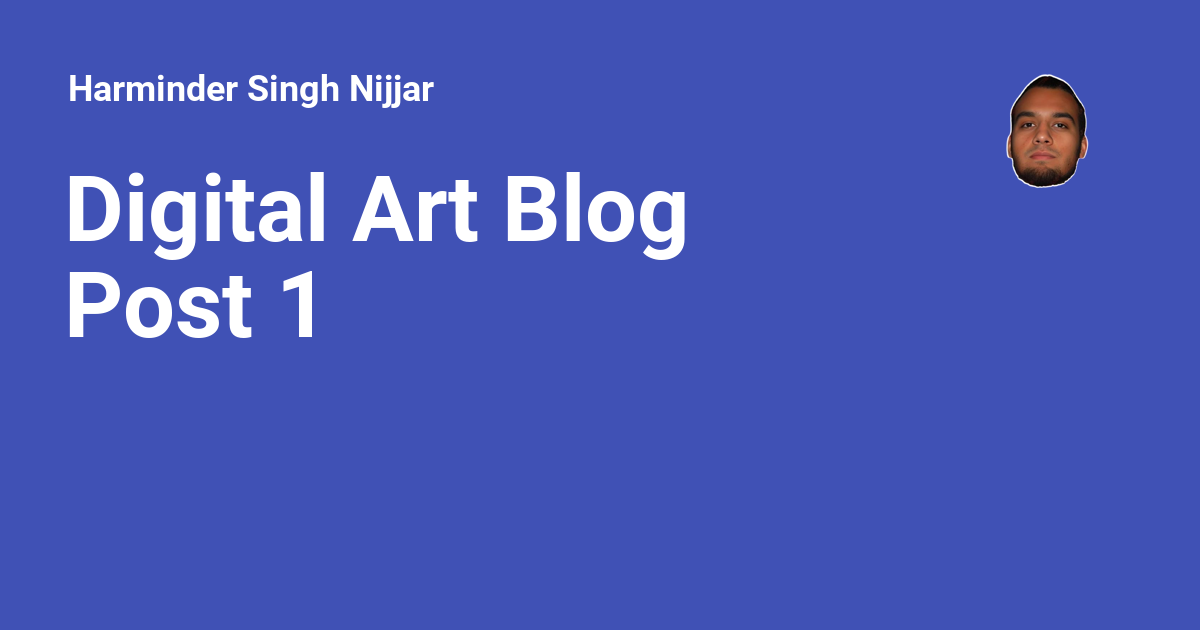
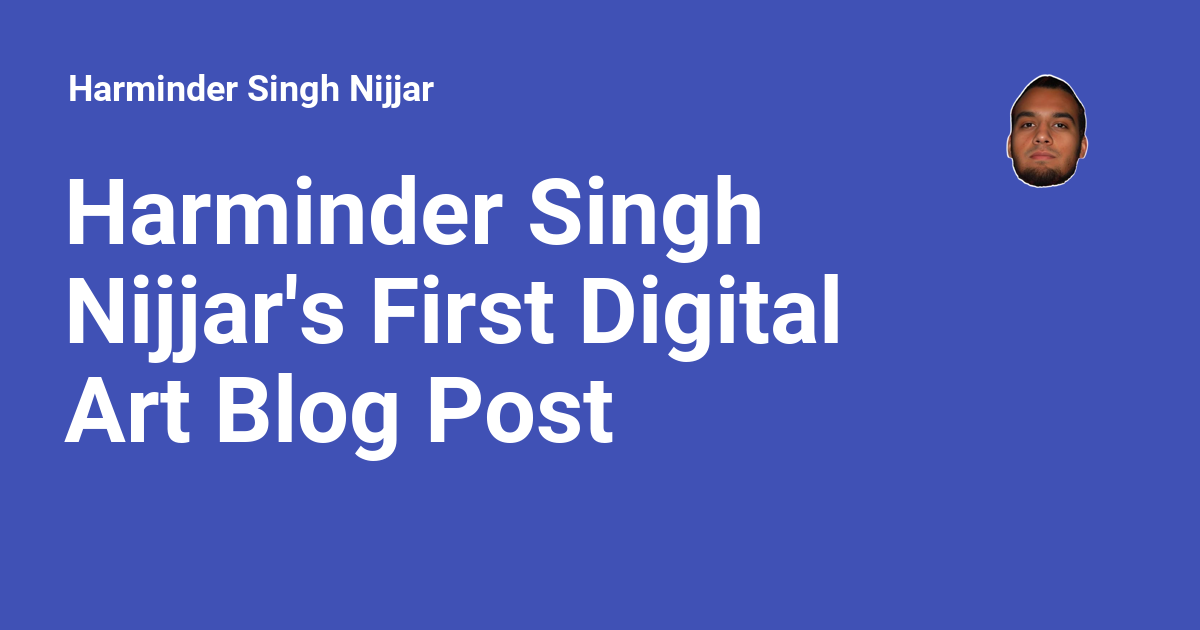
Deployed d854480 with MkDocs version: 1.6.1

Changed region(s): [[0.0617, 0.2714, 0.7092, 0.573], [0.0308, 0.573, 0.5242, 0.754]]

diff --git a/blog/2024/11/25/harminder-singh-nijjars-first-digital-art-blog-post/index.html b/blog/2024/11/25/harminder-singh-nijjars-first-digital-art-blog-post/index.html
@@ -7,11 +7,11 @@
 <meta content="width=device-width,initial-scale=1" name="viewport"/>
 <meta content="While sitting on the dining table drinking a Celsius Peach Vibe, I decided to create a quick digital drawing of the can next to a container of JIF peanut butter. The drawing was done on my MobiScribe WAVE using the stylus that came with the device. The MobiScribe WAVE is a great tool for digital art, and I enjoy using it for quick sketches and drawings." name="description"/>
 <meta content="harmindersinghnijjar" name="author"/>
-<link href="https://harminder.dev/blog/2024/11/25/digital-art-blog-post-1/" rel="canonical">
+<link href="https://harminder.dev/blog/2024/11/25/harminder-singh-nijjars-first-digital-art-blog-post/" rel="canonical">
 <link href="../../24/my-first-blog-post/" rel="prev"/>
 <link href="../../../../../assets/images/favicon.png" rel="icon"/>
 <meta content="mkdocs-1.6.1, mkdocs-material-9.5.45" name="generator"/>
-<title>Digital Art Blog Post 1 - Harminder Singh Nijjar</title>
+<title>Harminder Singh Nijjar's First Digital Art Blog Post - Harminder Singh Nijjar</title>
 <link href="../../../../../assets/stylesheets/main.0253249f.min.css" rel="stylesheet"/>
 <link href="../../../../../assets/stylesheets/palette.06af60db.min.css" rel="stylesheet"/>
 <link crossorigin="" href="https://fonts.gstatic.com" rel="preconnect">
@@ -23,24 +23,24 @@
 <script id="__analytics">function __md_analytics(){function e(){dataLayer.push(arguments)}window.dataLayer=window.dataLayer||[],e("js",new Date),e("config","G-X0B1C5DM9K"),document.addEventListener("DOMContentLoaded",(function(){document.forms.search&&document.forms.search.query.addEventListener("blur",(function(){this.value&&e("event","search",{search_term:this.value})}));document$.subscribe((function(){var t=document.forms.feedback;if(void 0!==t)for(var a of t.querySelectorAll("[type=submit]"))a.addEventListener("click",(function(a){a.preventDefault();var n=document.location.pathname,d=this.getAttribute("data-md-value");e("event","feedback",{page:n,data:d}),t.firstElementChild.disabled=!0;var r=t.querySelector(".md-feedback__note [data-md-value='"+d+"']");r&&(r.hidden=!1)})),t.hidden=!1})),location$.subscribe((function(t){e("config","G-X0B1C5DM9K",{page_path:t.pathname})}))}));var t=document.createElement("script");t.async=!0,t.src="https://www.googletagmanager.com/gtag/js?id=G-X0B1C5DM9K",document.getElementById("__analytics").insertAdjacentElement("afterEnd",t)}</script>
 <script>if("undefined"!=typeof __md_analytics){var consent=__md_get("__consent");consent&&consent.analytics&&__md_analytics()}</script>
 <meta content="website" property="og:type"/>
-<meta content="Digital Art Blog Post 1 - Harminder Singh Nijjar" property="og:title"/>
+<meta content="Harminder Singh Nijjar's First Digital Art Blog Post - Harminder Singh Nijjar" property="og:title"/>
 <meta content="None" property="og:description"/>
 <meta content="https://i.imgur.com/knoIoDW.jpeg" property="og:image"/>
 <meta content="image/png" property="og:image:type"/>
 <meta content="1200" property="og:image:width"/>
 <meta content="630" property="og:image:height"/>
-<meta content="https://harminder.dev/blog/2024/11/25/digital-art-blog-post-1/" property="og:url"/>
+<meta content="https://harminder.dev/blog/2024/11/25/harminder-singh-nijjars-first-digital-art-blog-post/" property="og:url"/>
 <meta content="summary_large_image" name="twitter:card"/>
-<meta content="Digital Art Blog Post 1 - Harminder Singh Nijjar" name="twitter:title"/>
+<meta content="Harminder Singh Nijjar's First Digital Art Blog Post - Harminder Singh Nijjar" name="twitter:title"/>
 <meta content="None" name="twitter:description"/>
 <meta content="https://harminder.dev/assets/images/social/blog/posts/20241125141256.png" name="twitter:image"/>
-<meta content="Digital Art Blog Post 1" name="title"/><link href="https://cdnjs.cloudflare.com/ajax/libs/font-awesome/6.4.2/css/all.min.css" rel="stylesheet"><meta content="website" property="og:type"/><meta content="https://harminder.dev/blog/2024/11/25/digital-art-blog-post-1" property="og:url"/><meta content="Digital Art Blog Post 1" property="og:title"/><meta content="While sitting on the dining table drinking a Celsius Peach Vibe, I decided to create a quick digital drawing of the can next to a container of JIF peanut butter. The drawing was done on my MobiScribe WAVE using the stylus that came with the device. The MobiScribe WAVE is a great tool for digital art, and I enjoy using it for quick sketches and drawings." property="og:description"/><meta content="summary_large_image" property="twitter:card"/><meta content="https://harminder.dev/blog/2024/11/25/digital-art-blog-post-1" property="twitter:url"/><meta content="Digital Art Blog Post 1" property="twitter:title"/><meta content="While sitting on the dining table drinking a Celsius Peach Vibe, I decided to create a quick digital drawing of the can next to a container of JIF peanut butter. The drawing was done on my MobiScribe WAVE using the stylus that came with the device. The MobiScribe WAVE is a great tool for digital art, and I enjoy using it for quick sketches and drawings." property="twitter:description"/><meta content="https://i.imgur.com/knoIoDW.jpeg" property="twitter:image"/><script type="application/ld+json">{"@context": "https://schema.org", "@type": "Article", "headline": "Digital Art Blog Post 1", "image": ["https://i.imgur.com/knoIoDW.jpeg"], "datePublished": "2024-11-25 14:20:58 -0800", "dateModified": "2024-11-25 14:20:58 -0800", "author": [{"@type": "Organization", "name": "Ultralytics", "url": "https://ultralytics.com/"}], "abstract": "While sitting on the dining table drinking a Celsius Peach Vibe, I decided to create a quick digital drawing of the can next to a container of JIF peanut butter. The drawing was done on my MobiScribe WAVE using the stylus that came with the device. The MobiScribe WAVE is a great tool for digital art, and I enjoy using it for quick sketches and drawings."}</script></head>
+<meta content="Harminder Singh Nijjar's First Digital Art Blog Post" name="title"/><link href="https://cdnjs.cloudflare.com/ajax/libs/font-awesome/6.4.2/css/all.min.css" rel="stylesheet"><meta content="website" property="og:type"/><meta content="https://harminder.dev/blog/2024/11/25/harminder-singh-nijjars-first-digital-art-blog-post" property="og:url"/><meta content="Harminder Singh Nijjar's First Digital Art Blog Post" property="og:title"/><meta content="While sitting on the dining table drinking a Celsius Peach Vibe, I decided to create a quick digital drawing of the can next to a container of JIF peanut butter. The drawing was done on my MobiScribe WAVE using the stylus that came with the device. The MobiScribe WAVE is a great tool for digital art, and I enjoy using it for quick sketches and drawings." property="og:description"/><meta content="summary_large_image" property="twitter:card"/><meta content="https://harminder.dev/blog/2024/11/25/harminder-singh-nijjars-first-digital-art-blog-post" property="twitter:url"/><meta content="Harminder Singh Nijjar's First Digital Art Blog Post" property="twitter:title"/><meta content="While sitting on the dining table drinking a Celsius Peach Vibe, I decided to create a quick digital drawing of the can next to a container of JIF peanut butter. The drawing was done on my MobiScribe WAVE using the stylus that came with the device. The MobiScribe WAVE is a great tool for digital art, and I enjoy using it for quick sketches and drawings." property="twitter:description"/><meta content="https://i.imgur.com/knoIoDW.jpeg" property="twitter:image"/><script type="application/ld+json">{"@context": "https://schema.org", "@type": "Article", "headline": "Harminder Singh Nijjar's First Digital Art Blog Post", "image": ["https://i.imgur.com/knoIoDW.jpeg"], "datePublished": "2024-11-25 14:20:58 -0800", "dateModified": "2024-11-25 14:37:38 -0800", "author": [{"@type": "Organization", "name": "Ultralytics", "url": "https://ultralytics.com/"}], "abstract": "While sitting on the dining table drinking a Celsius Peach Vibe, I decided to create a quick digital drawing of the can next to a container of JIF peanut butter. The drawing was done on my MobiScribe WAVE using the stylus that came with the device. The MobiScribe WAVE is a great tool for digital art, and I enjoy using it for quick sketches and drawings."}</script></head>
 <body data-md-color-accent="custom" data-md-color-primary="custom" data-md-color-scheme="slate" dir="ltr">
 <input autocomplete="off" class="md-toggle" data-md-toggle="drawer" id="__drawer" type="checkbox"/>
 <input autocomplete="off" class="md-toggle" data-md-toggle="search" id="__search" type="checkbox"/>
 <label class="md-overlay" for="__drawer"></label>
 <div data-md-component="skip">
-<a class="md-skip" href="#digital-art-blog-post-1">
+<a class="md-skip" href="#my-first-digital-art-blog-post">
           Skip to content
         </a>
 </div>
@@ -64,7 +64,7 @@
 <div class="md-header__topic" data-md-component="header-topic">
 <span class="md-ellipsis">
             
-              Digital Art Blog Post 1
+              Harminder Singh Nijjar's First Digital Art Blog Post
             
           </span>
 </div>
@@ -276,7 +276,7 @@
 <span class="md-tag">Drawing</span>
 <span class="md-tag">Digital Art</span>
 </nav>
-<h1 id="digital-art-blog-post-1">Digital Art Blog Post 1</h1>
+<h1 id="my-first-digital-art-blog-post">My First Digital Art Blog Post</h1>
 <p>While sitting on the dining table drinking a <a href="https://www.celsius.com/products/peach-vibe/">Celsius Peach Vibe</a>, I decided to create a quick digital drawing of the can next to a container of JIF peanut butter. The drawing was done on my MobiScribe WAVE using the stylus that came with the device. The MobiScribe WAVE is a great tool for digital art, and I enjoy using it for quick sketches and drawings.</p>
 <p><img alt="JIF + Celsius Peach Vibe" src="https://i.imgur.com/knoIoDW.jpeg"></p>
 <form class="md-feedback" hidden="" name="feedback">
@@ -312,7 +312,7 @@
 </div>
 </fieldset>
 </form>
-<div class="git-info" style="font-size: 0.8em; text-align: right; margin-bottom: 10px;"><br/>Created 2024-11-25, Updated 2024-11-25<br/>Authors: <a href="https://github.com/harmindersinghnijjar">harmindersinghnijjar</a> (1)</div>
+<div class="git-info" style="font-size: 0.8em; text-align: right; margin-bottom: 10px;"><br/>Created 2024-11-25, Updated 2024-11-25<br/>Authors: <a href="https://github.com/harmindersinghnijjar">harmindersinghnijjar</a> (2)</div>
 <style>
                 .share-button:hover {
                     filter: brightness(1.2);
@@ -323,10 +323,10 @@
                 }
             </style>
 <div class="share-buttons">
-<button class="share-button" onclick="window.open('https://twitter.com/intent/tweet?url=https://harminder.dev/blog/2024/11/25/digital-art-blog-post-1', 'TwitterShare', 'width=550,height=680,menubar=no,toolbar=no'); return false;" style="background-color: #1da1f2; color: white; padding: 5px 10px; border-radius: 5px; margin-right: 10px; cursor: pointer; display: flex; align-items: center;">
+<button class="share-button" onclick="window.open('https://twitter.com/intent/tweet?url=https://harminder.dev/blog/2024/11/25/harminder-singh-nijjars-first-digital-art-blog-post', 'TwitterShare', 'width=550,height=680,menubar=no,toolbar=no'); return false;" style="background-color: #1da1f2; color: white; padding: 5px 10px; border-radius: 5px; margin-right: 10px; cursor: pointer; display: flex; align-items: center;">
 <i class="fa-brands fa-twitter" style="margin-right: 5px;"></i> Tweet
                 </button>
-<button class="share-button" onclick="window.open('https://www.linkedin.com/shareArticle?url=https://harminder.dev/blog/2024/11/25/digital-art-blog-post-1', 'LinkedinShare', 'width=550,height=730,menubar=no,toolbar=no'); return false;" style="background-color: #0077b5; color: white; padding: 5px 10px; border-radius: 5px; cursor: pointer; display: flex; align-items: center;">
+<button class="share-button" onclick="window.open('https://www.linkedin.com/shareArticle?url=https://harminder.dev/blog/2024/11/25/harminder-singh-nijjars-first-digital-art-blog-post', 'LinkedinShare', 'width=550,height=730,menubar=no,toolbar=no'); return false;" style="background-color: #0077b5; color: white; padding: 5px 10px; border-radius: 5px; cursor: pointer; display: flex; align-items: center;">
 <i class="fa-brands fa-linkedin" style="margin-right: 5px;"></i> Share
                 </button>
 </div>

diff --git a/index.html b/index.html
@@ -34,7 +34,7 @@
 <meta content="Harminder Singh Nijjar" name="twitter:title"/>
 <meta content="None" name="twitter:description"/>
 <meta content="https://harminder.dev/assets/images/social/index.png" name="twitter:image"/>
-<meta content="Harminder Singh Nijjar - Personal Documentation Site" name="title"/><link href="https://cdnjs.cloudflare.com/ajax/libs/font-awesome/6.4.2/css/all.min.css" rel="stylesheet"><meta content="website" property="og:type"/><meta content="https://harminder.dev/" property="og:url"/><meta content="Harminder Singh Nijjar - Personal Documentation Site" property="og:title"/><meta content="Welcome to my personal documentation site, a curated collection of notes, guides, and insights that I have found valuable. It is my hope that you will find these resources equally beneficial." property="og:description"/><meta content="summary_large_image" property="twitter:card"/><meta content="https://harminder.dev/" property="twitter:url"/><meta content="Harminder Singh Nijjar - Personal Documentation Site" property="twitter:title"/><meta content="Welcome to my personal documentation site, a curated collection of notes, guides, and insights that I have found valuable. It is my hope that you will find these resources equally beneficial." property="twitter:description"/><script type="application/ld+json">{"@context": "https://schema.org", "@type": "Article", "headline": "Harminder Singh Nijjar - Personal Documentation Site", "image": [], "datePublished": "2024-11-24 13:38:12 -0800", "dateModified": "2024-11-25 14:06:06 -0800", "author": [{"@type": "Organization", "name": "Ultralytics", "url": "https://ultralytics.com/"}], "abstract": "Welcome to my personal documentation site, a curated collection of notes, guides, and insights that I have found valuable. It is my hope that you will find these resources equally beneficial."}</script></head>
+<meta content="Harminder Singh Nijjar - Personal Documentation Site" name="title"/><link href="https://cdnjs.cloudflare.com/ajax/libs/font-awesome/6.4.2/css/all.min.css" rel="stylesheet"><meta content="website" property="og:type"/><meta content="https://harminder.dev/" property="og:url"/><meta content="Harminder Singh Nijjar - Personal Documentation Site" property="og:title"/><meta content="Welcome to my personal documentation site, a curated collection of notes, guides, and insights that I have found valuable. It is my hope that you will find these resources equally beneficial." property="og:description"/><meta content="summary_large_image" property="twitter:card"/><meta content="https://harminder.dev/" property="twitter:url"/><meta content="Harminder Singh Nijjar - Personal Documentation Site" property="twitter:title"/><meta content="Welcome to my personal documentation site, a curated collection of notes, guides, and insights that I have found valuable. It is my hope that you will find these resources equally beneficial." property="twitter:description"/><script type="application/ld+json">{"@context": "https://schema.org", "@type": "Article", "headline": "Harminder Singh Nijjar - Personal Documentation Site", "image": [], "datePublished": "2024-11-24 13:38:12 -0800", "dateModified": "2024-11-25 14:37:38 -0800", "author": [{"@type": "Organization", "name": "Ultralytics", "url": "https://ultralytics.com/"}], "abstract": "Welcome to my personal documentation site, a curated collection of notes, guides, and insights that I have found valuable. It is my hope that you will find these resources equally beneficial."}</script></head>
 <body data-md-color-accent="custom" data-md-color-primary="custom" data-md-color-scheme="slate" dir="ltr">
 <input autocomplete="off" class="md-toggle" data-md-toggle="drawer" id="__drawer" type="checkbox"/>
 <input autocomplete="off" class="md-toggle" data-md-toggle="search" id="__search" type="checkbox"/>
@@ -240,11 +240,11 @@
 <p>Welcome to my personal documentation site, a curated collection of notes, guides, and insights that I have found valuable. It is my hope that you will find these resources equally beneficial.  </p>
 <p>Please note that this site is a continuous work in progress, with new content regularly added and existing content frequently updated. The information provided is based on my personal experiences and perspectives, which may not align with every individual's circumstances. Your feedback and suggestions are always welcome, and I encourage you to share your thoughts.  </p>
 <h2 id="projects">Projects</h2>
-<p>Each year, I will undertake a series of projects with defined deadlines. This site serves as a platform to document my progress, share insights, and reflect on the outcomes of these endeavors. If you are interested in collaborating on a project or have a project idea, please feel free to reach out on <a href="https://discord.gg/nuJfCWCxby" target="_blank">Discord</a>.</p>
+<p>Each year, I will undertake a series of projects with defined deadlines. This site serves as a platform to document my progress, share insights, and reflect on the outcomes of these endeavors. If you are interested in collaborating on a project or have a project idea, please feel free to reach out on <a href="https://discord.gg/nuJfCWCxby">Discord</a>.</p>
 <p>Upon completion, projects will be archived for future reference, so be sure to explore the archive section for a record of past work.  </p>
 <h2 id="blog">Blog</h2>
 <p>The <a href="/blog">blog</a> section features a variety of posts on topics that capture my interest. These include tutorials, guides, opinion pieces, and other content that I hope will provide value and inspiration.</p>
-<div class="git-info" style="font-size: 0.8em; text-align: right; margin-bottom: 10px;"><br/>Created 2024-11-24, Updated 2024-11-25<br/>Authors: <a href="https://github.com/harmindersinghnijjar">harmindersinghnijjar</a> (6), <a href="https://github.com/harmindersinghnijjar/personal-website">not.committed.yet</a> (1)</div>
+<div class="git-info" style="font-size: 0.8em; text-align: right; margin-bottom: 10px;"><br/>Created 2024-11-24, Updated 2024-11-25<br/>Authors: <a href="https://github.com/harmindersinghnijjar">harmindersinghnijjar</a> (7)</div>
 <style>
                 .share-button:hover {
                     filter: brightness(1.2);

diff --git a/blog/2024/11/24/using-crosshairahk-to-assist-with-aiming-on-xbox-cloud-gaming/index.html b/blog/2024/11/24/using-crosshairahk-to-assist-with-aiming-on-xbox-cloud-gaming/index.html
@@ -33,7 +33,7 @@
 <meta content="Using Crosshair.AHK to Assist with Aiming on Xbox Cloud Gaming - Harminder Singh Nijjar" name="twitter:title"/>
 <meta content="None" name="twitter:description"/>
 <meta content="https://harminder.dev/assets/images/social/blog/posts/20241124153952.png" name="twitter:image"/>
-<meta content="Using Crosshair.AHK to Assist with Aiming on Xbox Cloud Gaming" name="title"/><link href="https://cdnjs.cloudflare.com/ajax/libs/font-awesome/6.4.2/css/all.min.css" rel="stylesheet"><meta content="website" property="og:type"/><meta content="https://harminder.dev/blog/2024/11/24/using-crosshairahk-to-assist-with-aiming-on-xbox-cloud-gaming" property="og:url"/><meta content="Using Crosshair.AHK to Assist with Aiming on Xbox Cloud Gaming" property="og:title"/><meta content="" property="og:description"/><meta content="summary_large_image" property="twitter:card"/><meta content="https://harminder.dev/blog/2024/11/24/using-crosshairahk-to-assist-with-aiming-on-xbox-cloud-gaming" property="twitter:url"/><meta content="Using Crosshair.AHK to Assist with Aiming on Xbox Cloud Gaming" property="twitter:title"/><meta content="" property="twitter:description"/><meta content="https://imgur.com/hSxHXl4.png" property="twitter:image"/><script type="application/ld+json">{"@context": "https://schema.org", "@type": "Article", "headline": "Using Crosshair.AHK to Assist with Aiming on Xbox Cloud Gaming", "image": ["https://imgur.com/hSxHXl4.png"], "datePublished": "2024-11-24 18:52:48 -0800", "dateModified": "2024-11-24 19:12:15 -0800", "author": [{"@type": "Organization", "name": "Ultralytics", "url": "https://ultralytics.com/"}], "abstract": ""}</script></head>
+<meta content="Using Crosshair.AHK to Assist with Aiming on Xbox Cloud Gaming" name="title"/><link href="https://cdnjs.cloudflare.com/ajax/libs/font-awesome/6.4.2/css/all.min.css" rel="stylesheet"><meta content="website" property="og:type"/><meta content="https://harminder.dev/blog/2024/11/24/using-crosshairahk-to-assist-with-aiming-on-xbox-cloud-gaming" property="og:url"/><meta content="Using Crosshair.AHK to Assist with Aiming on Xbox Cloud Gaming" property="og:title"/><meta content="" property="og:description"/><meta content="summary_large_image" property="twitter:card"/><meta content="https://harminder.dev/blog/2024/11/24/using-crosshairahk-to-assist-with-aiming-on-xbox-cloud-gaming" property="twitter:url"/><meta content="Using Crosshair.AHK to Assist with Aiming on Xbox Cloud Gaming" property="twitter:title"/><meta content="" property="twitter:description"/><meta content="https://imgur.com/hSxHXl4.png" property="twitter:image"/><script type="application/ld+json">{"@context": "https://schema.org", "@type": "Article", "headline": "Using Crosshair.AHK to Assist with Aiming on Xbox Cloud Gaming", "image": ["https://imgur.com/hSxHXl4.png"], "datePublished": "2024-11-24 18:52:48 -0800", "dateModified": "2024-11-25 14:37:38 -0800", "author": [{"@type": "Organization", "name": "Ultralytics", "url": "https://ultralytics.com/"}], "abstract": ""}</script></head>
 <body data-md-color-accent="custom" data-md-color-primary="custom" data-md-color-scheme="slate" dir="ltr">
 <input autocomplete="off" class="md-toggle" data-md-toggle="drawer" id="__drawer" type="checkbox"/>
 <input autocomplete="off" class="md-toggle" data-md-toggle="search" id="__search" type="checkbox"/>
@@ -215,6 +215,13 @@
     </label>
 <ul class="md-nav__list" data-md-component="toc" data-md-scrollfix="">
 <li class="md-nav__item">
+<a class="md-nav__link" href="#using-crosshairahk-to-assist-with-aiming-on-xbox-cloud-gaming">
+<span class="md-ellipsis">
+      Using Crosshair.AHK to Assist with Aiming on Xbox Cloud Gaming
+    </span>
+</a>
+</li>
+<li class="md-nav__item">
 <a class="md-nav__link" href="#features-of-crosshairahk">
 <span class="md-ellipsis">
       Features of Crosshair.AHK
@@ -319,7 +326,8 @@
 <span class="md-tag">Aiming</span>
 <span class="md-tag">Gaming Tools</span>
 </nav>
-<h1 id="using-crosshairahk-to-assist-with-aiming-on-xbox-cloud-gaming">Using Crosshair.AHK to Assist with Aiming on Xbox Cloud Gaming</h1>
+<h1>Using Crosshair.AHK to Assist with Aiming on Xbox Cloud Gaming</h1>
+<h2 id="using-crosshairahk-to-assist-with-aiming-on-xbox-cloud-gaming">Using Crosshair.AHK to Assist with Aiming on Xbox Cloud Gaming</h2>
 <p><img alt="Crosshair.AHK" src="https://imgur.com/hSxHXl4.png"></p>
 <p>I recently started playing games on Xbox Cloud Gaming on PC, and I noticed that the aim assist with <a href="https://github.com/EugeneSunrise/reWASD">reWASD</a> wasn't as powerful as I had initially expected. I decided to use <a href="https://github.com/harmindersinghnijjar/2020-2021-ahk-dump/blob/4dc11db4c5cd3d40db562ad3690c4d2599a27e5c/crosshair.ahk#L4">Crosshair.AHK</a> to help me aim better. Crosshair.AHK is a simple script that displays a crosshair on your screen to help you aim better in games. In this post, I will show you how to use Crosshair.AHK to assist with aiming in Fortnite on Xbox Cloud Gaming.</p>
 <h2 id="features-of-crosshairahk">Features of Crosshair.AHK</h2>
@@ -370,7 +378,7 @@
 </div>
 </fieldset>
 </form>
-<div class="git-info" style="font-size: 0.8em; text-align: right; margin-bottom: 10px;"><br/>Created 2024-11-24, Updated 2024-11-24<br/>Authors: <a href="https://github.com/harmindersinghnijjar">harmindersinghnijjar</a> (3)</div>
+<div class="git-info" style="font-size: 0.8em; text-align: right; margin-bottom: 10px;"><br/>Created 2024-11-24, Updated 2024-11-25<br/>Authors: <a href="https://github.com/harmindersinghnijjar">harmindersinghnijjar</a> (4)</div>
 <style>
                 .share-button:hover {
                     filter: brightness(1.2);

diff --git a/blog/index.html b/blog/index.html
@@ -22,7 +22,7 @@
     
     
       
-        <title>Harminder Singh Nijjar's Blog on everything under the sun - Harminder Singh Nijjar</title>
+        <title>Harminder Singh Nijjar's Blog On Everything Under The Sun - Harminder Singh Nijjar</title>
       
     
     
@@ -71,7 +71,7 @@
       
         <meta  property="og:type"  content="website" >
       
-        <meta  property="og:title"  content="Harminder Singh Nijjar's Blog on everything under the sun - Harminder Singh Nijjar" >
+        <meta  property="og:title"  content="Harminder Singh Nijjar's Blog On Everything Under The Sun - Harminder Singh Nijjar" >
       
         <meta  property="og:description"  content="None" >
       
@@ -87,7 +87,7 @@
       
         <meta  name="twitter:card"  content="summary_large_image" >
       
-        <meta  name="twitter:title"  content="Harminder Singh Nijjar's Blog on everything under the sun - Harminder Singh Nijjar" >
+        <meta  name="twitter:title"  content="Harminder Singh Nijjar's Blog On Everything Under The Sun - Harminder Singh Nijjar" >
       
         <meta  name="twitter:description"  content="None" >
       
@@ -147,7 +147,7 @@
         <div class="md-header__topic" data-md-component="header-topic">
           <span class="md-ellipsis">
             
-              Harminder Singh Nijjar's Blog on everything under the sun
+              Harminder Singh Nijjar's Blog On Everything Under The Sun
             
           </span>
         </div>
@@ -532,9 +532,9 @@
     <ul class="md-nav__list" data-md-component="toc" data-md-scrollfix>
       
         <li class="md-nav__item">
-  <a href="#digital-art-blog-post-1" class="md-nav__link">
+  <a href="#my-first-digital-art-blog-post" class="md-nav__link">
     <span class="md-ellipsis">
-      Digital Art Blog Post 1
+      My First Digital Art Blog Post
     </span>
   </a>
   
@@ -599,7 +599,7 @@
     </div>
   </header>
   <div class="md-post__content md-typeset">
-    <h2 id="digital-art-blog-post-1"><a class="toclink" href="2024/11/25/digital-art-blog-post-1/">Digital Art Blog Post 1</a></h2>
+    <h2 id="my-first-digital-art-blog-post"><a class="toclink" href="2024/11/25/harminder-singh-nijjars-first-digital-art-blog-post/">My First Digital Art Blog Post</a></h2>
 <p>While sitting on the dining table drinking a <a href="https://www.celsius.com/products/peach-vibe/">Celsius Peach Vibe</a>, I decided to create a quick digital drawing of the can next to a container of JIF peanut butter. The drawing was done on my MobiScribe WAVE using the stylus that came with the device. The MobiScribe WAVE is a great tool for digital art, and I enjoy using it for quick sketches and drawings.</p>
 <p><img alt="JIF + Celsius Peach Vibe" src="https://i.imgur.com/knoIoDW.jpeg"></p>
     
@@ -662,6 +662,7 @@ tempor incididunt ut labore et dolore magna aliqua.</p>
   </header>
   <div class="md-post__content md-typeset">
     <h2 id="using-crosshairahk-to-assist-with-aiming-on-xbox-cloud-gaming"><a class="toclink" href="2024/11/24/using-crosshairahk-to-assist-with-aiming-on-xbox-cloud-gaming/">Using Crosshair.AHK to Assist with Aiming on Xbox Cloud Gaming</a></h2>
+<h3 id="using-crosshairahk-to-assist-with-aiming-on-xbox-cloud-gaming_1"><a class="toclink" href="2024/11/24/using-crosshairahk-to-assist-with-aiming-on-xbox-cloud-gaming/#using-crosshairahk-to-assist-with-aiming-on-xbox-cloud-gaming_1">Using Crosshair.AHK to Assist with Aiming on Xbox Cloud Gaming</a></h3>
 <p><img alt="Crosshair.AHK" src="https://imgur.com/hSxHXl4.png"></p>
 <p>I recently started playing games on Xbox Cloud Gaming on PC, and I noticed that the aim assist with <a href="https://github.com/EugeneSunrise/reWASD">reWASD</a> wasn't as powerful as I had initially expected. I decided to use <a href="https://github.com/harmindersinghnijjar/2020-2021-ahk-dump/blob/4dc11db4c5cd3d40db562ad3690c4d2599a27e5c/crosshair.ahk#L4">Crosshair.AHK</a> to help me aim better. Crosshair.AHK is a simple script that displays a crosshair on your screen to help you aim better in games. In this post, I will show you how to use Crosshair.AHK to assist with aiming in Fortnite on Xbox Cloud Gaming.</p>
 <h3 id="features-of-crosshairahk"><a class="toclink" href="2024/11/24/using-crosshairahk-to-assist-with-aiming-on-xbox-cloud-gaming/#features-of-crosshairahk">Features of Crosshair.AHK</a></h3>

diff --git a/blog/archive/2024/index.html b/blog/archive/2024/index.html
@@ -501,9 +501,9 @@
     <ul class="md-nav__list" data-md-component="toc" data-md-scrollfix>
       
         <li class="md-nav__item">
-  <a href="#digital-art-blog-post-1" class="md-nav__link">
+  <a href="#my-first-digital-art-blog-post" class="md-nav__link">
     <span class="md-ellipsis">
-      Digital Art Blog Post 1
+      My First Digital Art Blog Post
     </span>
   </a>
   
@@ -629,9 +629,9 @@
     <ul class="md-nav__list" data-md-component="toc" data-md-scrollfix>
       
         <li class="md-nav__item">
-  <a href="#digital-art-blog-post-1" class="md-nav__link">
+  <a href="#my-first-digital-art-blog-post" class="md-nav__link">
     <span class="md-ellipsis">
-      Digital Art Blog Post 1
+      My First Digital Art Blog Post
     </span>
   </a>
   
@@ -696,7 +696,7 @@
     </div>
   </header>
   <div class="md-post__content md-typeset">
-    <h2 id="digital-art-blog-post-1"><a class="toclink" href="../../2024/11/25/digital-art-blog-post-1/">Digital Art Blog Post 1</a></h2>
+    <h2 id="my-first-digital-art-blog-post"><a class="toclink" href="../../2024/11/25/harminder-singh-nijjars-first-digital-art-blog-post/">My First Digital Art Blog Post</a></h2>
 <p>While sitting on the dining table drinking a <a href="https://www.celsius.com/products/peach-vibe/">Celsius Peach Vibe</a>, I decided to create a quick digital drawing of the can next to a container of JIF peanut butter. The drawing was done on my MobiScribe WAVE using the stylus that came with the device. The MobiScribe WAVE is a great tool for digital art, and I enjoy using it for quick sketches and drawings.</p>
 <p><img alt="JIF + Celsius Peach Vibe" src="https://i.imgur.com/knoIoDW.jpeg"></p>
     
@@ -759,6 +759,7 @@ tempor incididunt ut labore et dolore magna aliqua.</p>
   </header>
   <div class="md-post__content md-typeset">
     <h2 id="using-crosshairahk-to-assist-with-aiming-on-xbox-cloud-gaming"><a class="toclink" href="../../2024/11/24/using-crosshairahk-to-assist-with-aiming-on-xbox-cloud-gaming/">Using Crosshair.AHK to Assist with Aiming on Xbox Cloud Gaming</a></h2>
+<h3 id="using-crosshairahk-to-assist-with-aiming-on-xbox-cloud-gaming_1"><a class="toclink" href="../../2024/11/24/using-crosshairahk-to-assist-with-aiming-on-xbox-cloud-gaming/#using-crosshairahk-to-assist-with-aiming-on-xbox-cloud-gaming_1">Using Crosshair.AHK to Assist with Aiming on Xbox Cloud Gaming</a></h3>
 <p><img alt="Crosshair.AHK" src="https://imgur.com/hSxHXl4.png"></p>
 <p>I recently started playing games on Xbox Cloud Gaming on PC, and I noticed that the aim assist with <a href="https://github.com/EugeneSunrise/reWASD">reWASD</a> wasn't as powerful as I had initially expected. I decided to use <a href="https://github.com/harmindersinghnijjar/2020-2021-ahk-dump/blob/4dc11db4c5cd3d40db562ad3690c4d2599a27e5c/crosshair.ahk#L4">Crosshair.AHK</a> to help me aim better. Crosshair.AHK is a simple script that displays a crosshair on your screen to help you aim better in games. In this post, I will show you how to use Crosshair.AHK to assist with aiming in Fortnite on Xbox Cloud Gaming.</p>
 <h3 id="features-of-crosshairahk"><a class="toclink" href="../../2024/11/24/using-crosshairahk-to-assist-with-aiming-on-xbox-cloud-gaming/#features-of-crosshairahk">Features of Crosshair.AHK</a></h3>

diff --git a/blog/category/art/index.html b/blog/category/art/index.html
@@ -554,9 +554,9 @@
     <ul class="md-nav__list" data-md-component="toc" data-md-scrollfix>
       
         <li class="md-nav__item">
-  <a href="#digital-art-blog-post-1" class="md-nav__link">
+  <a href="#my-first-digital-art-blog-post" class="md-nav__link">
     <span class="md-ellipsis">
-      Digital Art Blog Post 1
+      My First Digital Art Blog Post
     </span>
   </a>
   
@@ -659,9 +659,9 @@
     <ul class="md-nav__list" data-md-component="toc" data-md-scrollfix>
       
         <li class="md-nav__item">
-  <a href="#digital-art-blog-post-1" class="md-nav__link">
+  <a href="#my-first-digital-art-blog-post" class="md-nav__link">
     <span class="md-ellipsis">
-      Digital Art Blog Post 1
+      My First Digital Art Blog Post
     </span>
   </a>
   
@@ -708,7 +708,7 @@
     </div>
   </header>
   <div class="md-post__content md-typeset">
-    <h2 id="digital-art-blog-post-1"><a class="toclink" href="../../2024/11/25/digital-art-blog-post-1/">Digital Art Blog Post 1</a></h2>
+    <h2 id="my-first-digital-art-blog-post"><a class="toclink" href="../../2024/11/25/harminder-singh-nijjars-first-digital-art-blog-post/">My First Digital Art Blog Post</a></h2>
 <p>While sitting on the dining table drinking a <a href="https://www.celsius.com/products/peach-vibe/">Celsius Peach Vibe</a>, I decided to create a quick digital drawing of the can next to a container of JIF peanut butter. The drawing was done on my MobiScribe WAVE using the stylus that came with the device. The MobiScribe WAVE is a great tool for digital art, and I enjoy using it for quick sketches and drawings.</p>
 <p><img alt="JIF + Celsius Peach Vibe" src="https://i.imgur.com/knoIoDW.jpeg"></p>
     

diff --git a/blog/category/gaming/index.html b/blog/category/gaming/index.html
@@ -710,6 +710,7 @@
   </header>
   <div class="md-post__content md-typeset">
     <h2 id="using-crosshairahk-to-assist-with-aiming-on-xbox-cloud-gaming"><a class="toclink" href="../../2024/11/24/using-crosshairahk-to-assist-with-aiming-on-xbox-cloud-gaming/">Using Crosshair.AHK to Assist with Aiming on Xbox Cloud Gaming</a></h2>
+<h3 id="using-crosshairahk-to-assist-with-aiming-on-xbox-cloud-gaming_1"><a class="toclink" href="../../2024/11/24/using-crosshairahk-to-assist-with-aiming-on-xbox-cloud-gaming/#using-crosshairahk-to-assist-with-aiming-on-xbox-cloud-gaming_1">Using Crosshair.AHK to Assist with Aiming on Xbox Cloud Gaming</a></h3>
 <p><img alt="Crosshair.AHK" src="https://imgur.com/hSxHXl4.png"></p>
 <p>I recently started playing games on Xbox Cloud Gaming on PC, and I noticed that the aim assist with <a href="https://github.com/EugeneSunrise/reWASD">reWASD</a> wasn't as powerful as I had initially expected. I decided to use <a href="https://github.com/harmindersinghnijjar/2020-2021-ahk-dump/blob/4dc11db4c5cd3d40db562ad3690c4d2599a27e5c/crosshair.ahk#L4">Crosshair.AHK</a> to help me aim better. Crosshair.AHK is a simple script that displays a crosshair on your screen to help you aim better in games. In this post, I will show you how to use Crosshair.AHK to assist with aiming in Fortnite on Xbox Cloud Gaming.</p>
 <h3 id="features-of-crosshairahk"><a class="toclink" href="../../2024/11/24/using-crosshairahk-to-assist-with-aiming-on-xbox-cloud-gaming/#features-of-crosshairahk">Features of Crosshair.AHK</a></h3>

diff --git a/blog/category/programming/index.html b/blog/category/programming/index.html
@@ -710,6 +710,7 @@
   </header>
   <div class="md-post__content md-typeset">
     <h2 id="using-crosshairahk-to-assist-with-aiming-on-xbox-cloud-gaming"><a class="toclink" href="../../2024/11/24/using-crosshairahk-to-assist-with-aiming-on-xbox-cloud-gaming/">Using Crosshair.AHK to Assist with Aiming on Xbox Cloud Gaming</a></h2>
+<h3 id="using-crosshairahk-to-assist-with-aiming-on-xbox-cloud-gaming_1"><a class="toclink" href="../../2024/11/24/using-crosshairahk-to-assist-with-aiming-on-xbox-cloud-gaming/#using-crosshairahk-to-assist-with-aiming-on-xbox-cloud-gaming_1">Using Crosshair.AHK to Assist with Aiming on Xbox Cloud Gaming</a></h3>
 <p><img alt="Crosshair.AHK" src="https://imgur.com/hSxHXl4.png"></p>
 <p>I recently started playing games on Xbox Cloud Gaming on PC, and I noticed that the aim assist with <a href="https://github.com/EugeneSunrise/reWASD">reWASD</a> wasn't as powerful as I had initially expected. I decided to use <a href="https://github.com/harmindersinghnijjar/2020-2021-ahk-dump/blob/4dc11db4c5cd3d40db562ad3690c4d2599a27e5c/crosshair.ahk#L4">Crosshair.AHK</a> to help me aim better. Crosshair.AHK is a simple script that displays a crosshair on your screen to help you aim better in games. In this post, I will show you how to use Crosshair.AHK to assist with aiming in Fortnite on Xbox Cloud Gaming.</p>
 <h3 id="features-of-crosshairahk"><a class="toclink" href="../../2024/11/24/using-crosshairahk-to-assist-with-aiming-on-xbox-cloud-gaming/#features-of-crosshairahk">Features of Crosshair.AHK</a></h3>

diff --git a/blog/2024/11/24/my-first-blog-post/index.html b/blog/2024/11/24/my-first-blog-post/index.html
@@ -10,7 +10,7 @@ tempor incididunt ut labore et dolore magna aliqua." name="description"/>
 <meta content="harmindersinghnijjar" name="author"/>
 <link href="https://harminder.dev/blog/2024/11/24/my-first-blog-post/" rel="canonical">
 <link href="../using-crosshairahk-to-assist-with-aiming-on-xbox-cloud-gaming/" rel="prev"/>
-<link href="../../25/digital-art-blog-post-1/" rel="next"/>
+<link href="../../25/harminder-singh-nijjars-first-digital-art-blog-post/" rel="next"/>
 <link href="../../../../../assets/images/favicon.png" rel="icon"/>
 <meta content="mkdocs-1.6.1, mkdocs-material-9.5.45" name="generator"/>
 <title>My First Blog Post - Harminder Singh Nijjar</title>
